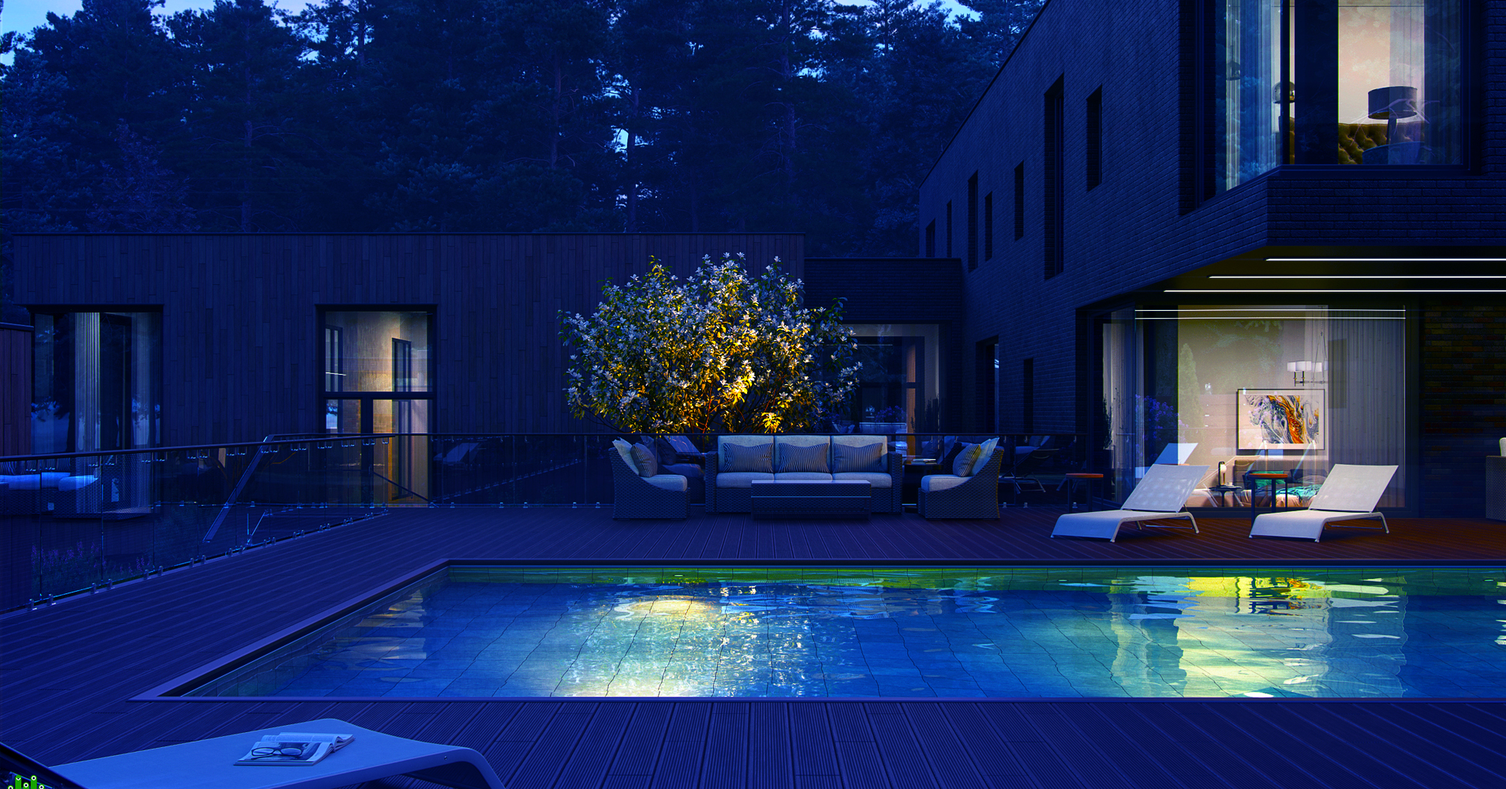
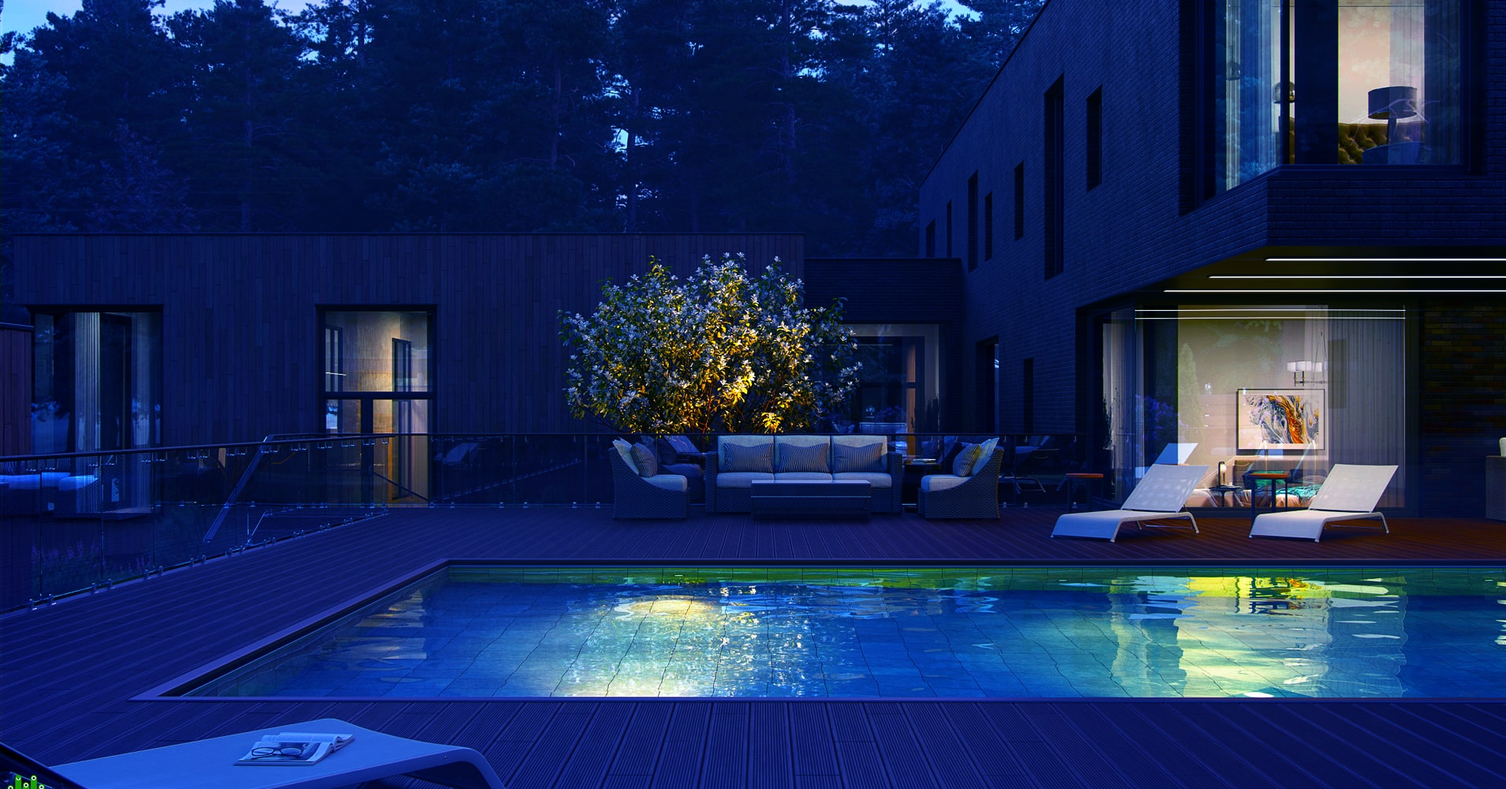
new hero photos compressed

diff --git a/index.html b/index.html
@@ -89,11 +89,6 @@
                                     <h3 class="hero-text__subtitle">Превосходно подойдут для облицовки, реновации и декоративного оформления фасадов</h3>
                                     <a href="#" class="hero-text__btn btn">Узнать подробнее</a>
                                 </div>
-                                <div class="swiper-slide">
-                                    <h2 class="hero-text__title">Фасадные системы4</h2>
-                                    <h3 class="hero-text__subtitle">Превосходно подойдут для облицовки, реновации и декоративного оформления фасадов</h3>
-                                    <a href="#" class="hero-text__btn btn">Узнать подробнее</a>
-                                </div>
                             </div>
                         </div>
                         <div class="slider-bottom hero-slider__bottom">
